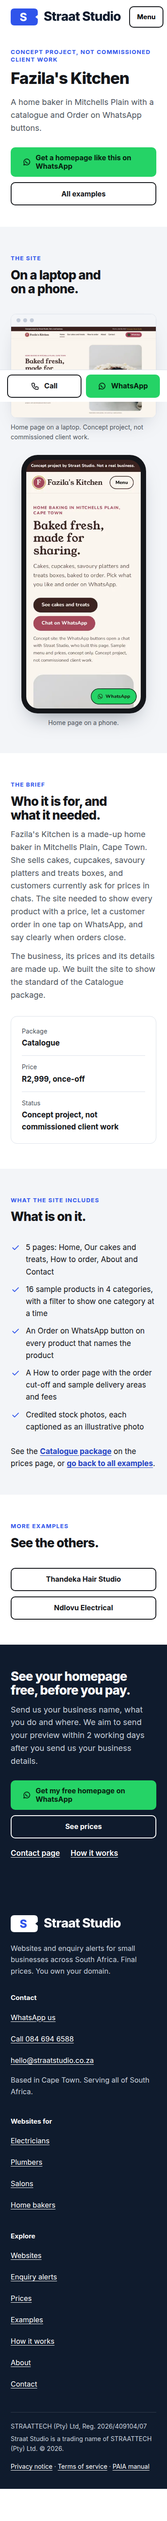
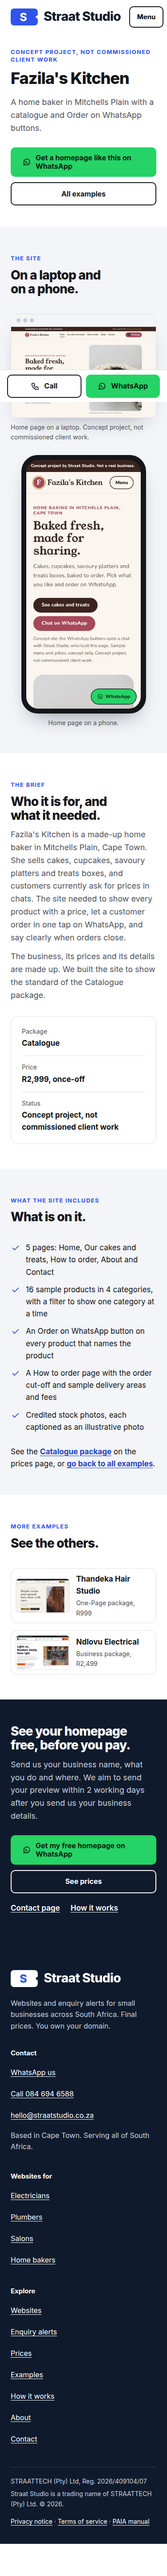
Update tests, report and screenshots
Claude-Session: https://claude.ai/code/session_01L2GkMj4RvU8rndSNf5UwXf

Changed region(s): [[0.0, 0.0, 1.0, 0.9973], [0.6747, 0.9662, 0.88, 0.9973], [0.528, 0.9662, 0.6453, 0.9973]]

diff --git a/docs/test-report.md b/docs/test-report.md
@@ -8,7 +8,7 @@ Run with `npm run build` then `npm run test:all` (scripts in `tools/`). Results 
 | a2 | Link checker, zero broken links | PASS | PASS: 53 distinct links checked on 19 pages, zero broken |
 | a3 | No em dashes in src/ | PASS |  |
 | b | axe, 19 pages at 375 px and 1280 px (WCAG 2.0 to 2.2 A and AA plus best practice) | PASS | 0 violations |
-| c | Lighthouse mobile: performance, accessibility, best practices, SEO (target 95 or more each) | PASS | /: 100/100/100/100; /prices/: 100/100/100/100; /websites-for-electricians/: 100/100/100/100; /websites-for-plumbers/: 100/100/100/100; /websites-for-salons/: 100/100/100/100; /websites-for-home-bakers/: 100/100/100/100; /examples/: 100/100/100/100; /examples/fazilas-kitchen/: 100/100/100/100; /examples/thandeka-hair-studio/: 100/100/100/100; /examples/ndlovu-electrical/: 100/100/100/100; /enquiry-system/: 100/100/100/100; /contact/: 100/100/100/100 |
+| c | Lighthouse mobile: performance, accessibility, best practices, SEO (target 95 or more each) | PASS | /: 100/100/100/100; /prices/: 100/100/100/100; /websites-for-electricians/: 98/100/100/100; /websites-for-plumbers/: 100/100/100/100; /websites-for-salons/: 100/100/100/100; /websites-for-home-bakers/: 100/100/100/100; /examples/: 100/100/100/100; /examples/fazilas-kitchen/: 100/100/100/100; /examples/thandeka-hair-studio/: 100/100/100/100; /examples/ndlovu-electrical/: 99/100/100/100; /enquiry-system/: 100/100/100/100; /contact/: 99/100/100/100 |
 | d | Keyboard test at 375 px (header, menu, accordion, sticky bar) | PASS | 8 checks |
 | e | Colour contrast WCAG AA | PASS | Covered by axe color-contrast on every page (item b) |
 | f1 | No leftover serif fonts (computed font on every element) | PASS | 0 found |
@@ -28,24 +28,24 @@ Run with `npm run build` then `npm run test:all` (scripts in `tools/`). Results 
 
 | Page | Total KB | Largest image | JS KB (external) |
 | --- | --- | --- | --- |
-| / | 217 | /work/thandeka-desktop-800.webp 41 KB | 0 |
+| / | 235 | /work/thandeka-desktop-800.webp 41 KB | 0 |
 | /websites/ | 106 | /brand/logo-light.svg 7 KB | 0 |
 | /enquiry-system/ | 101 | /brand/logo-light.svg 7 KB | 0 |
-| /prices/ | 116 | /brand/logo-light.svg 7 KB | 0 |
-| /examples/ | 185 | /work/thandeka-desktop-800.webp 41 KB | 0 |
-| /examples/fazilas-kitchen/ | 143 | /work/fazila-phone-390.webp 25 KB | 0 |
-| /examples/thandeka-hair-studio/ | 160 | /work/thandeka-desktop-800.webp 41 KB | 0 |
-| /examples/ndlovu-electrical/ | 148 | /work/ndlovu-phone-390.webp 27 KB | 0 |
+| /prices/ | 117 | /brand/logo-light.svg 7 KB | 0 |
+| /examples/ | 199 | /work/thandeka-desktop-800.webp 41 KB | 0 |
+| /examples/fazilas-kitchen/ | 196 | /work/ndlovu-desktop-600.webp 26 KB | 0 |
+| /examples/thandeka-hair-studio/ | 202 | /work/thandeka-desktop-800.webp 41 KB | 0 |
+| /examples/ndlovu-electrical/ | 204 | /work/ndlovu-desktop-800.webp 40 KB | 0 |
 | /how-it-works/ | 96 | /brand/logo-light.svg 7 KB | 0 |
 | /about/ | 95 | /brand/logo-light.svg 7 KB | 0 |
-| /contact/ | 95 | /brand/logo-light.svg 7 KB | 0 |
-| /websites-for-electricians/ | 104 | /brand/logo-light.svg 7 KB | 0 |
+| /contact/ | 96 | /brand/logo-light.svg 7 KB | 0 |
+| /websites-for-electricians/ | 105 | /brand/logo-light.svg 7 KB | 0 |
 | /websites-for-plumbers/ | 104 | /brand/logo-light.svg 7 KB | 0 |
-| /websites-for-salons/ | 103 | /brand/logo-light.svg 7 KB | 0 |
+| /websites-for-salons/ | 104 | /brand/logo-light.svg 7 KB | 0 |
 | /websites-for-home-bakers/ | 105 | /brand/logo-light.svg 7 KB | 0 |
-| /privacy/ | 93 | /brand/logo-light.svg 7 KB | 0 |
-| /terms/ | 94 | /brand/logo-light.svg 7 KB | 0 |
-| /paia-manual/ | 103 | /brand/logo-light.svg 7 KB | 0 |
+| /privacy/ | 94 | /brand/logo-light.svg 7 KB | 0 |
+| /terms/ | 95 | /brand/logo-light.svg 7 KB | 0 |
+| /paia-manual/ | 104 | /brand/logo-light.svg 7 KB | 0 |
 | /404.html | 90 | /brand/logo-light.svg 7 KB | 0 |
 
 The small script is inlined by the build, so external JS shows as 0. Its source is under 5 KB.
@@ -54,18 +54,18 @@ The small script is inlined by the build, so external JS shows as 0. Its source 
 
 | Page | Performance | Accessibility | Best practices | SEO | LCP | CLS | TBT |
 | --- | --- | --- | --- | --- | --- | --- | --- |
-| / | 100 | 100 | 100 | 100 | 1.0 s | 0 | 0 ms |
-| /prices/ | 100 | 100 | 100 | 100 | 0.9 s | 0 | 0 ms |
-| /websites-for-electricians/ | 100 | 100 | 100 | 100 | 0.9 s | 0 | 10 ms |
-| /websites-for-plumbers/ | 100 | 100 | 100 | 100 | 0.9 s | 0 | 20 ms |
-| /websites-for-salons/ | 100 | 100 | 100 | 100 | 0.9 s | 0 | 20 ms |
-| /websites-for-home-bakers/ | 100 | 100 | 100 | 100 | 0.9 s | 0 | 0 ms |
-| /examples/ | 100 | 100 | 100 | 100 | 0.8 s | 0 | 0 ms |
-| /examples/fazilas-kitchen/ | 100 | 100 | 100 | 100 | 1.5 s | 0 | 10 ms |
-| /examples/thandeka-hair-studio/ | 100 | 100 | 100 | 100 | 1.7 s | 0 | 0 ms |
-| /examples/ndlovu-electrical/ | 100 | 100 | 100 | 100 | 1.7 s | 0 | 0 ms |
-| /enquiry-system/ | 100 | 100 | 100 | 100 | 0.8 s | 0 | 0 ms |
-| /contact/ | 100 | 100 | 100 | 100 | 0.8 s | 0 | 50 ms |
+| / | 100 | 100 | 100 | 100 | 1.1 s | 0 | 70 ms |
+| /prices/ | 100 | 100 | 100 | 100 | 1.0 s | 0 | 30 ms |
+| /websites-for-electricians/ | 98 | 100 | 100 | 100 | 1.0 s | 0 | 170 ms |
+| /websites-for-plumbers/ | 100 | 100 | 100 | 100 | 1.0 s | 0 | 0 ms |
+| /websites-for-salons/ | 100 | 100 | 100 | 100 | 1.0 s | 0 | 10 ms |
+| /websites-for-home-bakers/ | 100 | 100 | 100 | 100 | 1.0 s | 0 | 20 ms |
+| /examples/ | 100 | 100 | 100 | 100 | 0.8 s | 0 | 80 ms |
+| /examples/fazilas-kitchen/ | 100 | 100 | 100 | 100 | 1.8 s | 0 | 20 ms |
+| /examples/thandeka-hair-studio/ | 100 | 100 | 100 | 100 | 1.8 s | 0 | 40 ms |
+| /examples/ndlovu-electrical/ | 99 | 100 | 100 | 100 | 1.8 s | 0 | 110 ms |
+| /enquiry-system/ | 100 | 100 | 100 | 100 | 0.8 s | 0 | 10 ms |
+| /contact/ | 99 | 100 | 100 | 100 | 0.8 s | 0 | 110 ms |
 
 These are lab scores from a local server with Lighthouse's simulated slow 4G. Re-run them on the live preview address before launch.
 
@@ -90,12 +90,11 @@ These are lab scores from a local server with Lighthouse's simulated slow 4G. Re
 - Reduced motion, /examples/: hidden 0, running animations 0, demo loop active 0, hidden phone cards 0, strip duplicate hidden true: **PASS**
 - 375 px, full scroll on home: layout shift 0.0002 (limit 0.05): **PASS**
 - 375 px: items still hidden after scrolling the whole page 0: **PASS**
-- Demo loop steps over 22 s: 0,0,1,2,3,0,1,2,3,0,1,2; loop length 9012 ms (must be 6000 ms or more): **PASS**
+- Demo loop steps over 22 s: 0,1,2,3,0,1,2,3,0,1,2; loop length 8999 ms (must be 6000 ms or more): **PASS**
 - Header shrinks after scroll: **PASS (76px to 62px)**
 
-## Examples fix checks (21 November 2026)
+## Tile and detail page fix (21 November 2026)
 
-- Pages tested now: 19 (the three new example pages added to every test).
-- Lighthouse mobile: all 12 pages 100/100/100/100, including /examples/ and the three detail pages (LCP 1.5 to 1.7 s on the detail pages, CLS 0).
-- Example image sizes: 1600 px WebP 83, 90 and 164 KB; 800 px WebP 24, 26 and 41 KB (each under 200 KB).
-- Two test fixes: the empty-gap check now knows the new tile class, and the WhatsApp button on the detail pages is labelled with the word WhatsApp.
+- The Ndlovu screenshot files (400, 600, 800 and 1200 px) were retaken from the built concept site at the 1600 x 1000 capture, so all three tiles fill their frame with no grey band and no cropped text. No recolouring.
+- Detail pages: the other two examples are now small cards (image, name, package).
+- Re-run: build no warnings, 53 links zero broken, axe zero violations on 19 pages at 375 and 1280, Lighthouse mobile 100/100/100/100 on /examples/ and /examples/fazilas-kitchen/ (Ndlovu 99, Thandeka 100 for performance). One 404 for a missing image size was found by Lighthouse and fixed.
